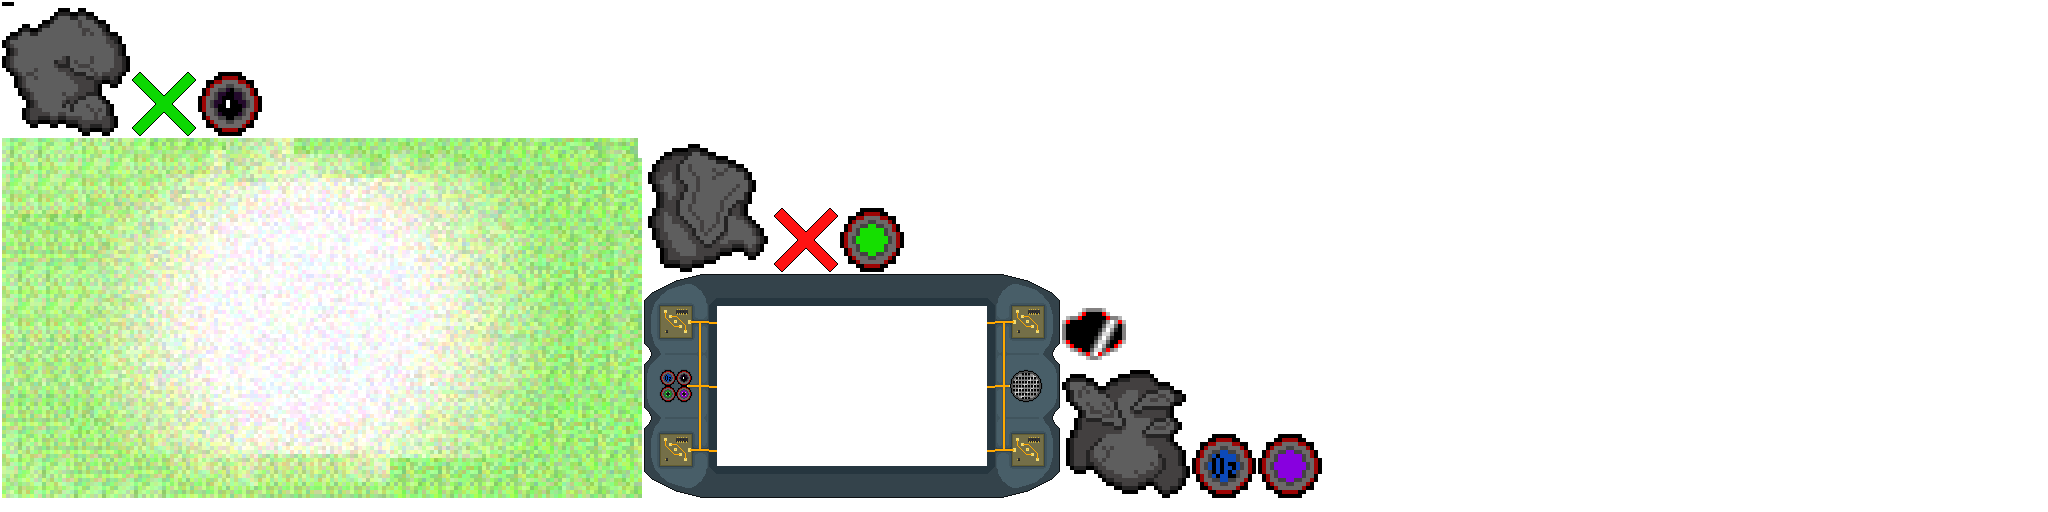
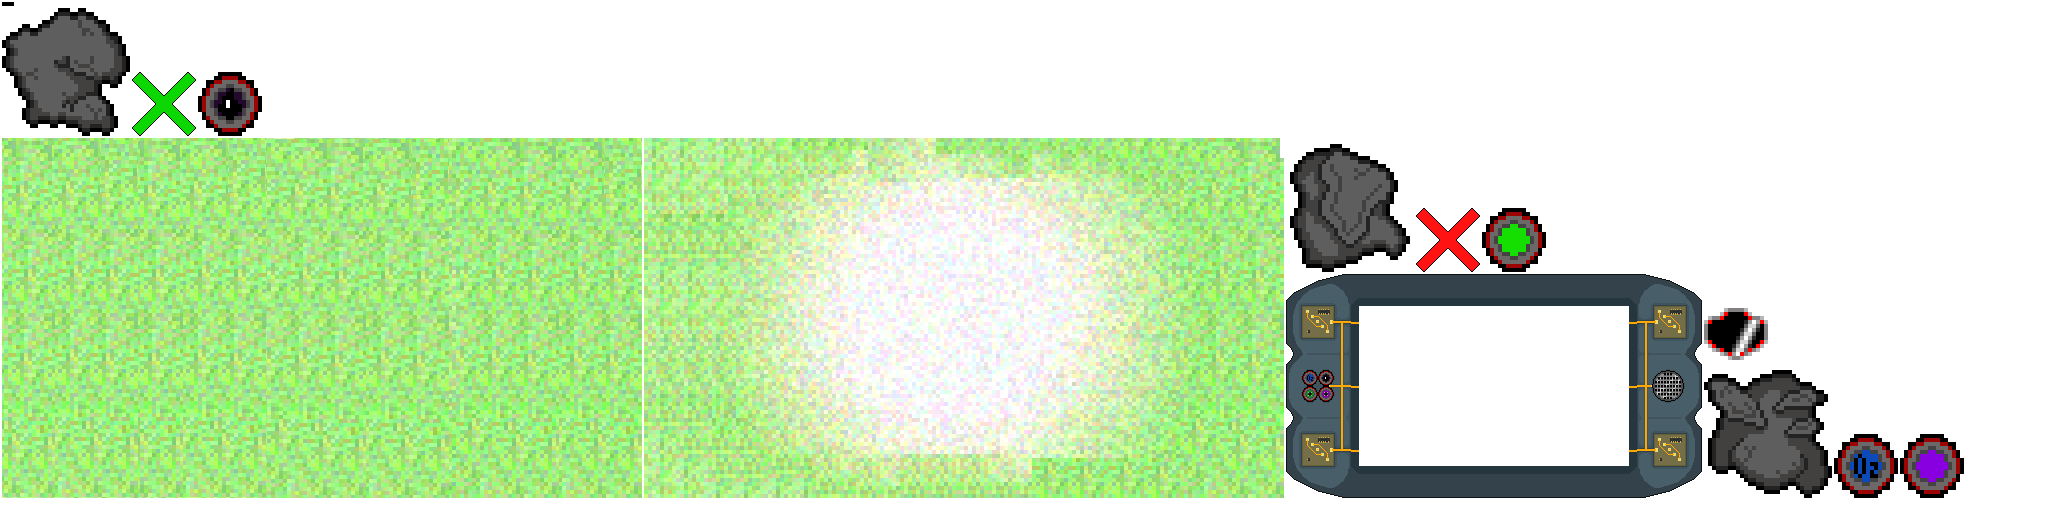
Removed the shine on the screen background, fixed a problem with corner connections in maze

diff --git a/core/src/com/apricotjam/spacepanic/systems/map/MazeGenerator.java b/core/src/com/apricotjam/spacepanic/systems/map/MazeGenerator.java
@@ -142,6 +142,7 @@ public class MazeGenerator {
 	private void blockConnections(int[][] patch, int[][] connectivity) {
 		//Find connection points
 		HashMap<Integer, ArrayList<Point>> connections = new HashMap<Integer, ArrayList<Point>>();
+		printPatch(patch, connectivity);
 		for (int i = 1; i < Patch.PATCH_WIDTH; i++) {
 			for (int j = 1; j < Patch.PATCH_HEIGHT; j++) {
 				if (connectivity[i][j] != 5) {
@@ -154,13 +155,13 @@ public class MazeGenerator {
 				connected[connectivity[i][j + 1]] = true;
 
 				int sideMask = 0;
-				if (connected[2]) {
-					sideMask += 2;
-				} else if (connected[4]) {
-					sideMask += 8;
+				for (int n = 1; n <= 4; n++) {
+					if (connected[n]) {
+						sideMask += 1 << n;
+					}
 				}
 
-				if (sideMask != 0) {
+				if (sideMask == 4 || sideMask == 16) {
 					if (!connections.containsKey(sideMask)) {
 						connections.put(sideMask, new ArrayList<Point>());
 					}
@@ -169,7 +170,6 @@ public class MazeGenerator {
 
 			}
 		}
-
 
 		//Block connections
 		for (int i : connections.keySet()) {

diff --git a/desktop/src/com/apricotjam/spacepanic/desktop/DesktopLauncher.java b/desktop/src/com/apricotjam/spacepanic/desktop/DesktopLauncher.java
@@ -7,7 +7,7 @@ import com.badlogic.gdx.tools.texturepacker.TexturePacker;
 
 public class DesktopLauncher {
 	public static void main (String[] arg) {
-		//TexturePacker.process("../../images", "atlas", "art");
+		TexturePacker.process("../../images", "atlas", "art");
 		
 		LwjglApplicationConfiguration config = new LwjglApplicationConfiguration();
 		config.width = SpacePanic.WIDTH;
